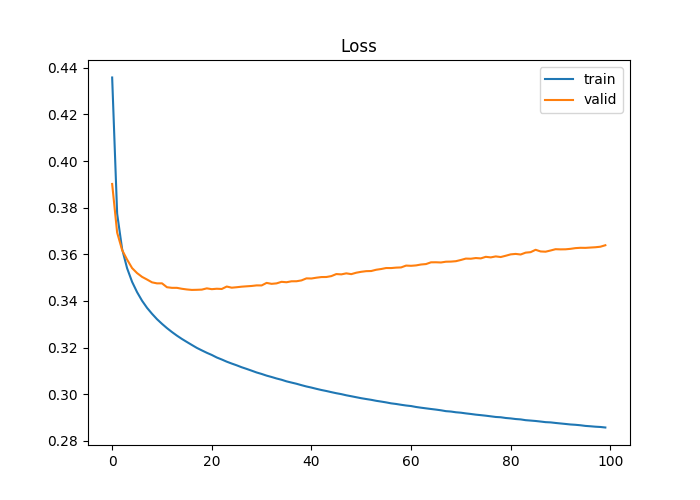
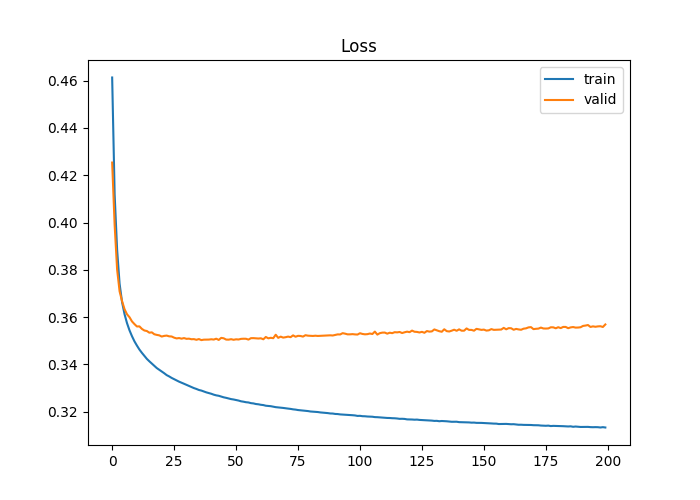
54%, best 123, no remove_stopwords, glove=100

diff --git a/My_Code/task1/CNN-4.py b/My_Code/task1/CNN-4.py
@@ -71,10 +71,10 @@ def write_config(filename, with_time=False):
 ### Hyperparameters tuning
 ### Run this cell for renewing the hyperparameters
 
-embedding_dim = 300
+embedding_dim = 100
 hidden_dim = 512
 learning_rate = 1e-4
-max_epoch = 100
+max_epoch = 200
 batch_size = 16
 
 # write the hyperparameters into config.ini
@@ -295,7 +295,7 @@ if not os.path.exists('glove'):
 ### Parsing the GloVe word-embeddings file
 # Parse the unzipped file (a .txt file) to build an index that maps words (as strings) to their vector representation (as number vectors)
 
-wordvector_path = 'glove/glove.6B.300d.txt'
+wordvector_path = 'glove/glove.6B.100d.txt'
 embeddings_index = {}
 f = open(wordvector_path)
 for line in f:
